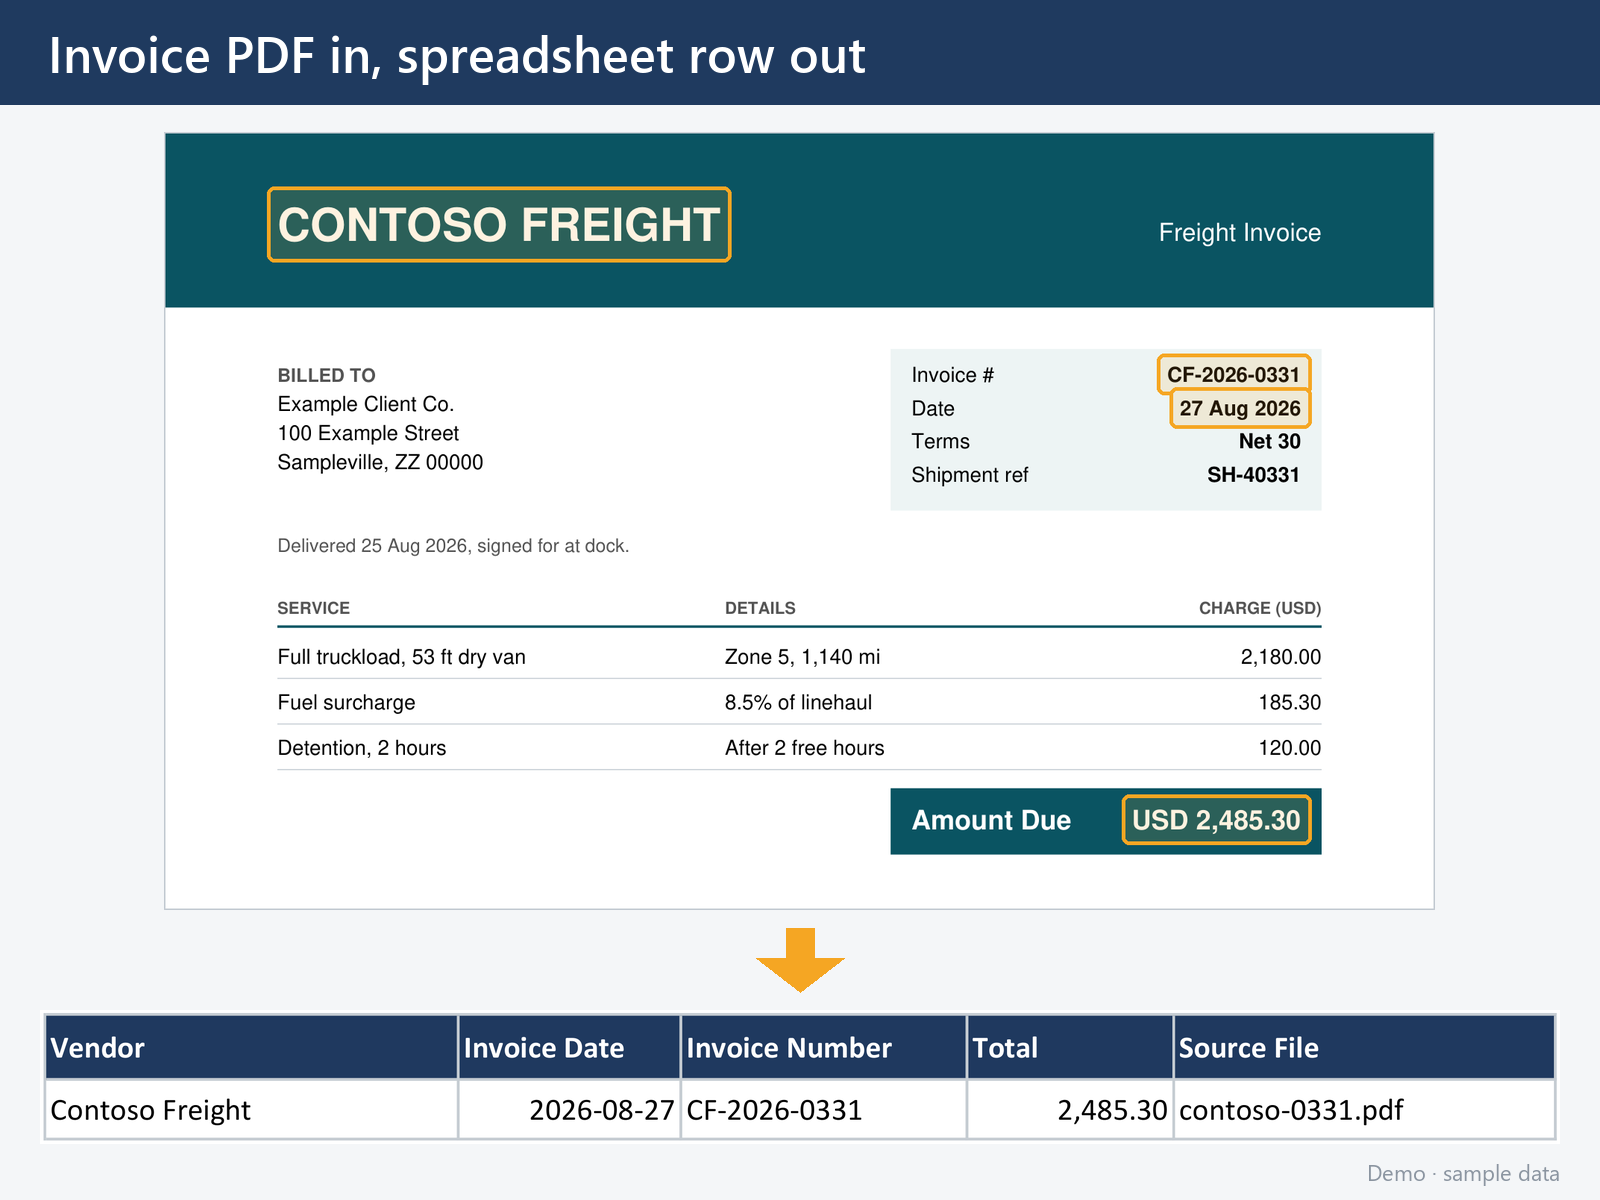
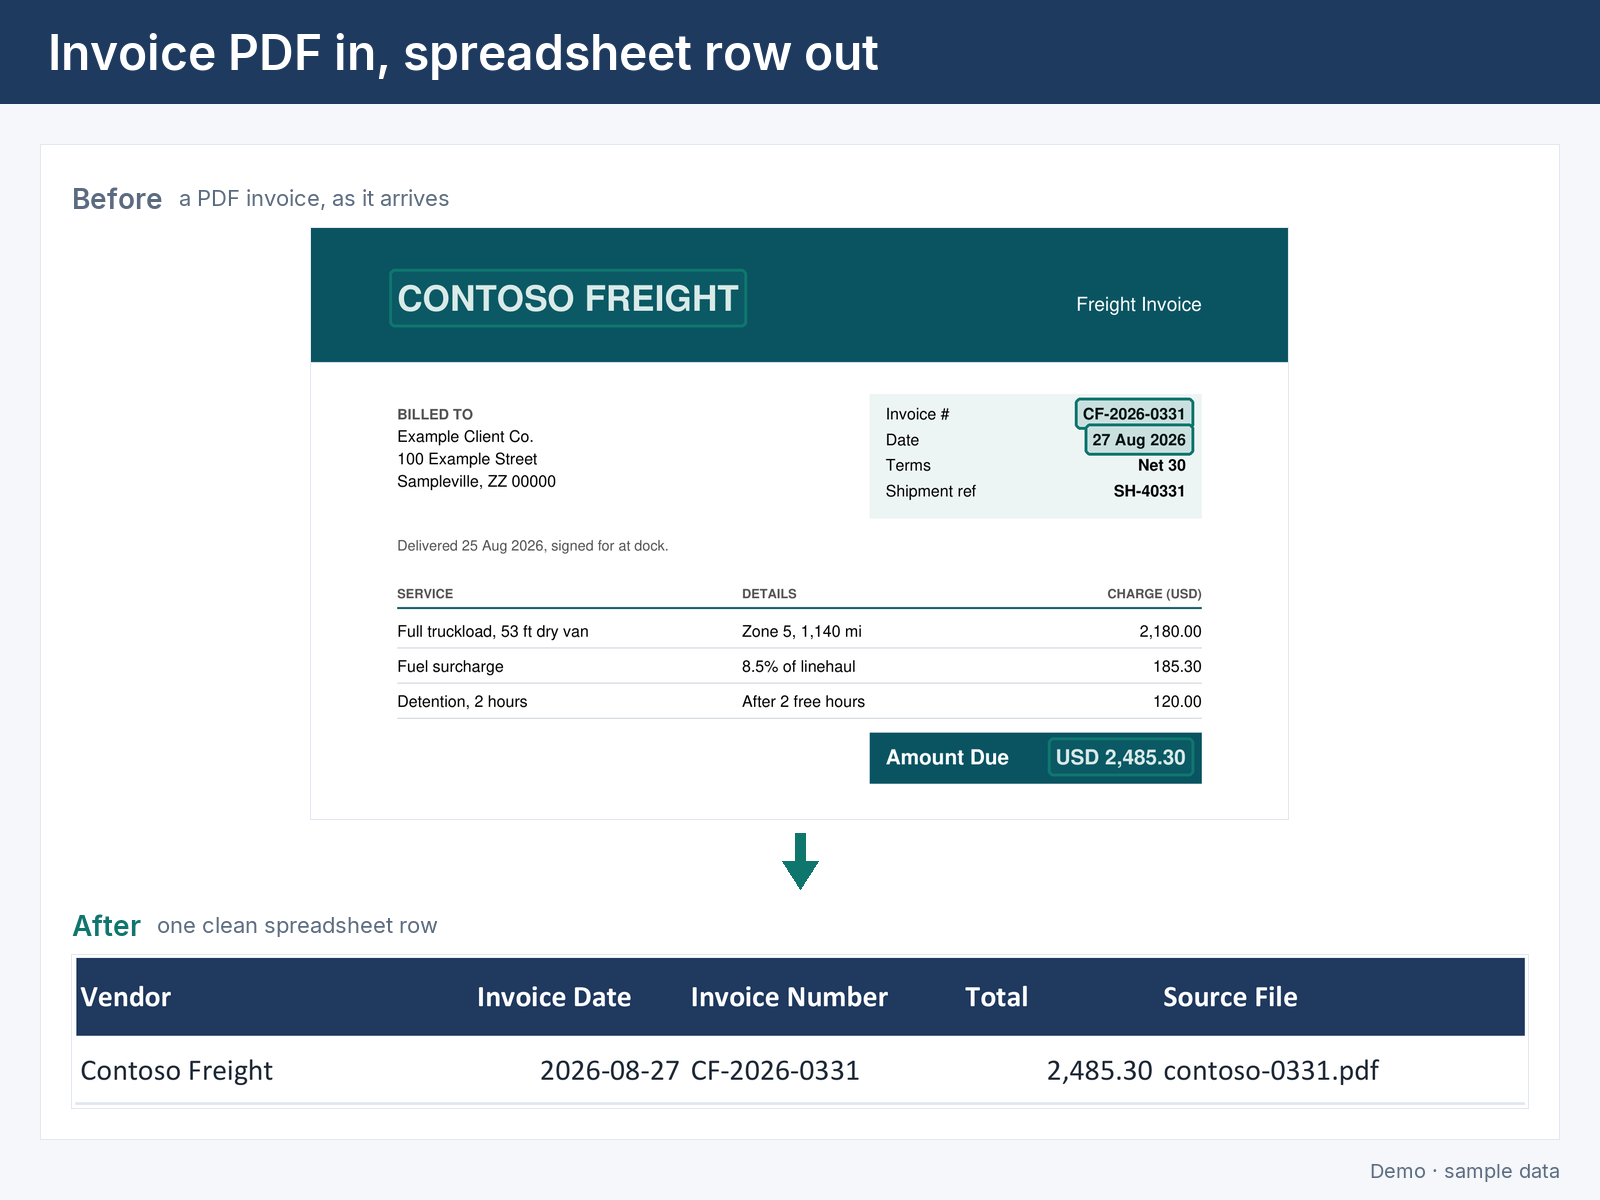
Rebuild the three showcase images on the style guide template
Before/after for the invoice and its row, the headline result above the
whole output sheet, and the run summary under four sample invoices. Inter
replaces the system fonts; teal replaces the orange highlight.

diff --git a/tools/make_screenshots.py b/tools/make_screenshots.py
@@ -1,13 +1,16 @@
-"""Rebuild the three portfolio screenshots in screenshots/ (PNG, exactly 1600x1200).
+"""Rebuild the three showcase images in screenshots/ (PNG, exactly 1600x1200).
 
 Usage (Windows, with Excel installed):
     python tools\\make_screenshots.py
 
-The images are composites, not screen grabs, so no window, account name or file
-path can appear in them:
+The images are composites on the AZG showcase template (tools\\showcase.py), not
+screen grabs, so no window, account name or file path can appear in them:
   - invoice pages are drawn from the sample PDFs with PyMuPDF;
   - spreadsheet content is printed to PDF by Excel itself, then drawn with PyMuPDF;
-  - the terminal picture is the extractor's real output, drawn as text.
+  - the run summary is the extractor's real output, drawn as text.
+
+A 400 px wide copy of each image is written to screenshots\\_work\\ so the
+headline can be checked at thumbnail size.
 """
 
 from __future__ import annotations
@@ -17,61 +20,19 @@ import sys
 from pathlib import Path
 
 import pymupdf
-from PIL import Image, ImageChops, ImageDraw, ImageFont
+from PIL import Image, ImageChops, ImageDraw
+
+import showcase as kit  # tools\showcase.py: a copy of the AZG showcase kit
 
 ROOT = Path(__file__).resolve().parent.parent
 SAMPLES = ROOT / "samples"
 OUTPUT_XLSX = ROOT / "output" / "invoices.xlsx"
 SHOTS = ROOT / "screenshots"
 WORK = SHOTS / "_work"
-FONTS = Path(r"C:\Windows\Fonts")
-
-WIDTH, HEIGHT = 1600, 1200
-STRIP_HEIGHT = 104
-MARGIN = 40
-CONTENT_BOX = (MARGIN, STRIP_HEIGHT + 28, WIDTH - MARGIN, HEIGHT - 56)
-BACKGROUND = "#F4F6F8"
-STRIP = "#1F3A5F"
-ACCENT = (245, 166, 35)
-FOOTNOTE = "Demo \u00b7 sample data"
 
 FEATURED = "contoso-0331.pdf"
 FEATURED_FIELDS = ("CONTOSO FREIGHT", "CF-2026-0331", "27 Aug 2026", "USD 2,485.30")
 THUMBNAILS = ("contoso-0318.pdf", "fabrikam-00771.pdf", "northwind-10528.pdf", "scan-0007.pdf")
-
-
-def font(file_name: str, size: int) -> ImageFont.FreeTypeFont:
-    return ImageFont.truetype(str(FONTS / file_name), size)
-
-
-def content_size() -> tuple[int, int]:
-    left, top, right, bottom = CONTENT_BOX
-    return right - left, bottom - top
-
-
-def fit(image: Image.Image, max_width: int, max_height: int) -> Image.Image:
-    scale = min(max_width / image.width, max_height / image.height)
-    size = (max(1, round(image.width * scale)), max(1, round(image.height * scale)))
-    return image.resize(size, Image.LANCZOS)
-
-
-def compose(content: Image.Image, caption: str, out_path: Path) -> None:
-    """Title strip on top, the content scaled to fill the rest, footnote bottom right."""
-    canvas = Image.new("RGB", (WIDTH, HEIGHT), BACKGROUND)
-    draw = ImageDraw.Draw(canvas)
-    draw.rectangle((0, 0, WIDTH, STRIP_HEIGHT), fill=STRIP)
-    draw.text((MARGIN + 8, STRIP_HEIGHT // 2), caption, font=font("seguisb.ttf", 50), fill="white", anchor="lm")
-
-    left, top, right, bottom = CONTENT_BOX
-    scaled = fit(content.convert("RGB"), right - left, bottom - top)
-    x = left + (right - left - scaled.width) // 2
-    y = top + (bottom - top - scaled.height) // 2
-    canvas.paste(scaled, (x, y))
-
-    draw.text((WIDTH - MARGIN, HEIGHT - 28), FOOTNOTE, font=font("segoeui.ttf", 22), fill="#8A94A0", anchor="rm")
-    assert canvas.size == (WIDTH, HEIGHT)
-    canvas.save(out_path, "PNG")
-    print(f"  {out_path.name}  {canvas.width}x{canvas.height}")
 
 
 def autocrop(image: Image.Image, pad: int = 6) -> Image.Image:
@@ -89,8 +50,7 @@ def pdf_page_image(pdf_path: Path, dpi: int = 200) -> Image.Image:
         return Image.frombytes("RGB", (pixmap.width, pixmap.height), pixmap.samples)
 
 
-def excel_range_image(xlsx: Path, address: str, name: str, keep_rows: set[int] | None = None,
-                      headings: bool = False) -> Image.Image:
+def excel_range_image(xlsx: Path, address: str, name: str, keep_rows: set[int] | None = None) -> Image.Image:
     """Have Excel print a range to PDF, then draw that PDF as an image."""
     import win32com.client as win32
 
@@ -111,7 +71,7 @@ def excel_range_image(xlsx: Path, address: str, name: str, keep_rows: set[int] |
         setup.Zoom = False
         setup.FitToPagesWide = 1
         setup.FitToPagesTall = 1
-        setup.PrintHeadings = headings
+        setup.PrintHeadings = False
         setup.PrintGridlines = False
         sheet.Range(address).ExportAsFixedFormat(0, str(pdf_path), 0, False, False)
         workbook.Close(False)  # nothing is saved back
@@ -121,13 +81,14 @@ def excel_range_image(xlsx: Path, address: str, name: str, keep_rows: set[int] |
 
 
 def featured_invoice_image() -> Image.Image:
-    """The featured invoice, cropped to the printed part, with the four fields boxed."""
+    """The featured invoice, cropped to the printed part, with the four fields boxed in teal."""
     dpi = 200
     scale = dpi / 72
     pdf_path = SAMPLES / FEATURED
     page_image = pdf_page_image(pdf_path, dpi).convert("RGBA")
     overlay = Image.new("RGBA", page_image.size, (0, 0, 0, 0))
     draw = ImageDraw.Draw(overlay)
+    teal = tuple(int(kit.TEAL[i:i + 2], 16) for i in (1, 3, 5))
     lowest = 0.0
     with pymupdf.open(pdf_path) as document:
         page = document[0]
@@ -138,104 +99,102 @@ def featured_invoice_image() -> Image.Image:
             rect = hits[0]
             lowest = max(lowest, rect.y1)
             box = ((rect.x0 - 5) * scale, (rect.y0 - 3) * scale, (rect.x1 + 5) * scale, (rect.y1 + 3) * scale)
-            draw.rounded_rectangle(box, radius=10, fill=ACCENT + (36,), outline=ACCENT + (255,), width=5)
+            draw.rounded_rectangle(box, radius=10, fill=teal + (40,), outline=teal + (255,), width=5)
     marked = Image.alpha_composite(page_image, overlay).convert("RGB")
-    cropped = marked.crop((0, 0, marked.width, round((lowest + 34) * scale)))
-    framed = Image.new("RGB", (cropped.width + 4, cropped.height + 4), "#C5CCD3")
-    framed.paste(cropped, (2, 2))
-    return framed
+    return marked.crop((0, 0, marked.width, round((lowest + 30) * scale)))
+
+
+def finish(card: Image.Image, caption: str, file_name: str) -> None:
+    path = kit.compose(card, caption, SHOTS / file_name)
+    small = kit.thumbnail(path, WORK)
+    print(f"  {path.name}  {kit.WIDTH}x{kit.HEIGHT}   (thumbnail: _work\\{small.name})")
 
 
 def shot_invoice_and_row() -> None:
+    """Before: the invoice, fields boxed. After: its one row in the output sheet."""
     row_number = 1 + sorted(p.name.lower() for p in SAMPLES.glob("*.pdf")).index(FEATURED) + 1
     row_strip = excel_range_image(OUTPUT_XLSX, "A1:E11", "row", keep_rows={row_number})
     invoice = featured_invoice_image()
 
-    width, height = content_size()
-    content = Image.new("RGB", (width, height), BACKGROUND)
-    arrow_height, gap = 64, 18
-    strip = fit(row_strip, width, 190)
-    invoice = fit(invoice, width, height - strip.height - arrow_height - 2 * gap)
-
-    y = (height - invoice.height - strip.height - arrow_height - 2 * gap) // 2
-    content.paste(invoice, ((width - invoice.width) // 2, y))
-    y += invoice.height + gap
-    draw = ImageDraw.Draw(content)
-    middle = width // 2
-    draw.rectangle((middle - 14, y, middle + 14, y + 30), fill=ACCENT)
-    draw.polygon(((middle - 44, y + 30), (middle + 44, y + 30), (middle, y + arrow_height)), fill=ACCENT)
-    y += arrow_height + gap
-    content.paste(strip, ((width - strip.width) // 2, y))
-    compose(content, "Invoice PDF in, spreadsheet row out", SHOTS / "1-invoice-to-row.png")
+    # Give the row strip the full card width, and the invoice the height that is left.
+    left, top, right, bottom = kit.inner(kit.new_card())
+    strip_height = row_strip.height * (right - left) / row_strip.width
+    usable = bottom - top - kit.ARROW_GAP - 2 * kit.LABEL_ROW
+    card, scales = kit.before_after(invoice, row_strip, orientation="vertical", share=(usable - strip_height) / usable,
+                                    before_note="a PDF invoice, as it arrives", after_note="one clean spreadsheet row")
+    print(f"  invoice drawn at {scales[0]:.2f}x, row at {scales[1]:.2f}x")
+    finish(card, "Invoice PDF in, spreadsheet row out", "1-invoice-to-row.png")
 
 
 def shot_output_sheet(summary_line: str) -> None:
-    sheet = excel_range_image(OUTPUT_XLSX, "A1:F11", "sheet", headings=True)
-    width, height = content_size()
-    content = Image.new("RGB", (width, height), BACKGROUND)
-    sheet = fit(sheet, width, height - 260)
-    callout_font = font("seguisb.ttf", 84)
-    gap = 70
-    block = sheet.height + gap + 100
-    y = (height - block) // 2
-    content.paste(sheet, ((width - sheet.width) // 2, y))
-    draw = ImageDraw.Draw(content)
-    draw.text((width // 2, y + sheet.height + gap + 50), summary_line.replace(", ", "  \u00b7  "),
-              font=callout_font, fill=STRIP, anchor="mm")
-    compose(content, "Unreadable invoices flagged, never guessed", SHOTS / "2-output-sheet-flagged-rows.png")
+    """The headline result, then the whole output sheet with its two flagged rows."""
+    sheet = excel_range_image(OUTPUT_XLSX, "A1:F11", "sheet")
+    card = kit.new_card()
+    left, top, right, bottom = kit.inner(card)
+    note = "Blank cells are blank on purpose. The Review column says why, so a person only checks those rows."
+    scaled, _ = kit.scale_to_fit(sheet, right - left, 10_000)
+    headline_height, note_height = 110, 40
+    spare = (bottom - top) - headline_height - scaled.height - note_height
+    gap = max(24, spare // 4)
+
+    y = top + gap // 2
+    kit.headline(card, summary_line.replace(", ", "  ·  "), card.width // 2, y + headline_height // 2, size=84)
+    y += headline_height + gap
+    box, scale = kit.place(card, sheet, (left, y, right, y + scaled.height), valign="top")
+    kit.text(ImageDraw.Draw(card), (card.width // 2, box[3] + gap + note_height // 2), note, 26, "regular", kit.SLATE, anchor="mm")
+    print(f"  sheet drawn at {scale:.2f}x")
+    finish(card, "Unreadable invoices flagged, never guessed", "2-output-sheet-flagged-rows.png")
 
 
 def page_thumbnail(file_name: str, width: int) -> Image.Image:
     """The printed top part of a sample invoice page, with a thin frame."""
-    page = pdf_page_image(SAMPLES / file_name, dpi=120)
-    page = page.crop((0, 0, page.width, round(page.height * 0.62)))
-    page = fit(page, width - 4, 10_000)
-    framed = Image.new("RGB", (page.width + 4, page.height + 4), "#C5CCD3")
-    framed.paste(page, (2, 2))
+    page = pdf_page_image(SAMPLES / file_name, dpi=150)
+    page = page.crop((0, 0, page.width, round(page.height * 0.75)))
+    page, _ = kit.scale_to_fit(page, width - 2, 10_000)
+    framed = Image.new("RGB", (page.width + 2, page.height + 2), kit.LINE)
+    framed.paste(page, (1, 1))
     return framed
 
 
-def shot_terminal(command: str, lines: list[str]) -> None:
+def shot_one_command(command: str, lines: list[str]) -> None:
     """A few of the sample invoices on top, the extractor's real output below."""
-    width, height = content_size()
-    content = Image.new("RGB", (width, height), BACKGROUND)
-    draw = ImageDraw.Draw(content)
+    card = kit.new_card()
+    draw = ImageDraw.Draw(card)
+    left, top, right, bottom = kit.inner(card)
+    width = right - left
 
     gap = 24
     thumb_width = (width - 3 * gap) // 4
     thumbs = [page_thumbnail(name, thumb_width) for name in THUMBNAILS]
-    label_font = font("segoeui.ttf", 24)
     label_height = 44
 
-    mono = font("consola.ttf", 36)
-    mono_bold = font("consolab.ttf", 36)
-    pad, step = 44, 60
-    terminal_height = pad + step + 14 + step * len(lines) + pad - 20
+    pad, step = 48, 56
+    details = lines[1:]
+    panel_height = pad + 48 + 24 + 108 + step * len(details) + pad - 10
+    block = thumbs[0].height + label_height + 28 + panel_height
+    y = top + max(0, (bottom - top - block) // 2)
 
-    y = (height - thumbs[0].height - label_height - gap - terminal_height) // 2
     for index, (name, thumb) in enumerate(zip(THUMBNAILS, thumbs)):
-        x = index * (thumb_width + gap)
-        content.paste(thumb, (x, y))
-        draw.text((x + thumb_width // 2, y + thumb.height + label_height // 2), name,
-                  font=label_font, fill="#4A5563", anchor="mm")
-    y += thumbs[0].height + label_height + gap
+        x = left + index * (thumb_width + gap)
+        card.paste(thumb, (x, y))
+        kit.text(draw, (x + thumb_width // 2, y + thumb.height + label_height // 2), name, 22, "regular", kit.SLATE, anchor="mm")
+    y += thumbs[0].height + label_height + 28
 
-    draw.rounded_rectangle((0, y, width - 1, y + terminal_height), radius=22, fill="#1E2430")
-    x, y = pad, y + pad
-    draw.text((x, y), "> " + command, font=mono, fill="#9FB3C8")
-    y += step + 14
-    for index, line in enumerate(lines):
-        if index == 0:
-            draw.text((x, y), line, font=mono_bold, fill="#FFFFFF")
-        elif "REVIEW" in line:
-            draw.text((x, y), line, font=mono, fill="#F5C26B")
-        else:
-            draw.text((x, y), line, font=mono, fill="#C9D4E0")
+    draw.rounded_rectangle((left, y, right, y + panel_height), radius=18, fill=kit.INK)
+    x, y = left + pad, y + pad
+    kit.text(draw, (x, y), "> " + command, 32, "regular", kit.LINE)
+    y += 48 + 24
+    kit.text(draw, (x, y), lines[0], 84, "semibold", kit.WHITE)
+    y += 108
+    for line in details:
+        review = "REVIEW" in line
+        kit.text(draw, (x + (30 if review else 0), y), " ".join(line.split()), 34, "regular",
+                 kit.AMBER_FILL if review else kit.LINE)
         y += step
-    longest = max(draw.textlength(text, font=mono_bold) for text in ["> " + command, *lines])
-    if x + longest > width - 30:
-        raise SystemExit("Terminal text is too wide for the picture")
-    compose(content, "One command reads the whole folder", SHOTS / "3-one-command-summary.png")
+    widest = max(kit.text_width(lines[0], 84, "semibold"), *(kit.text_width(" ".join(l.split()), 34) + 30 for l in details))
+    if x + widest > right - pad:
+        raise SystemExit("The run output is too wide for the picture")
+    finish(card, "One command reads the whole folder", "3-one-command-summary.png")
 
 
 def main() -> int:
@@ -243,11 +202,11 @@ def main() -> int:
     command = ["extract.py", "samples", "output\\invoices.xlsx"]
     run = subprocess.run([sys.executable, *command], cwd=ROOT, capture_output=True, text=True, check=True)
     lines = run.stdout.rstrip().splitlines()
-    print("Extractor said:", lines[0])
+    print(f"showcase kit {kit.__version__}. Extractor said: {lines[0]}")
     print("Writing screenshots:")
     shot_invoice_and_row()
     shot_output_sheet(lines[0])
-    shot_terminal("python " + " ".join(command), lines)
+    shot_one_command("python " + " ".join(command), lines)
     return 0
 
 
